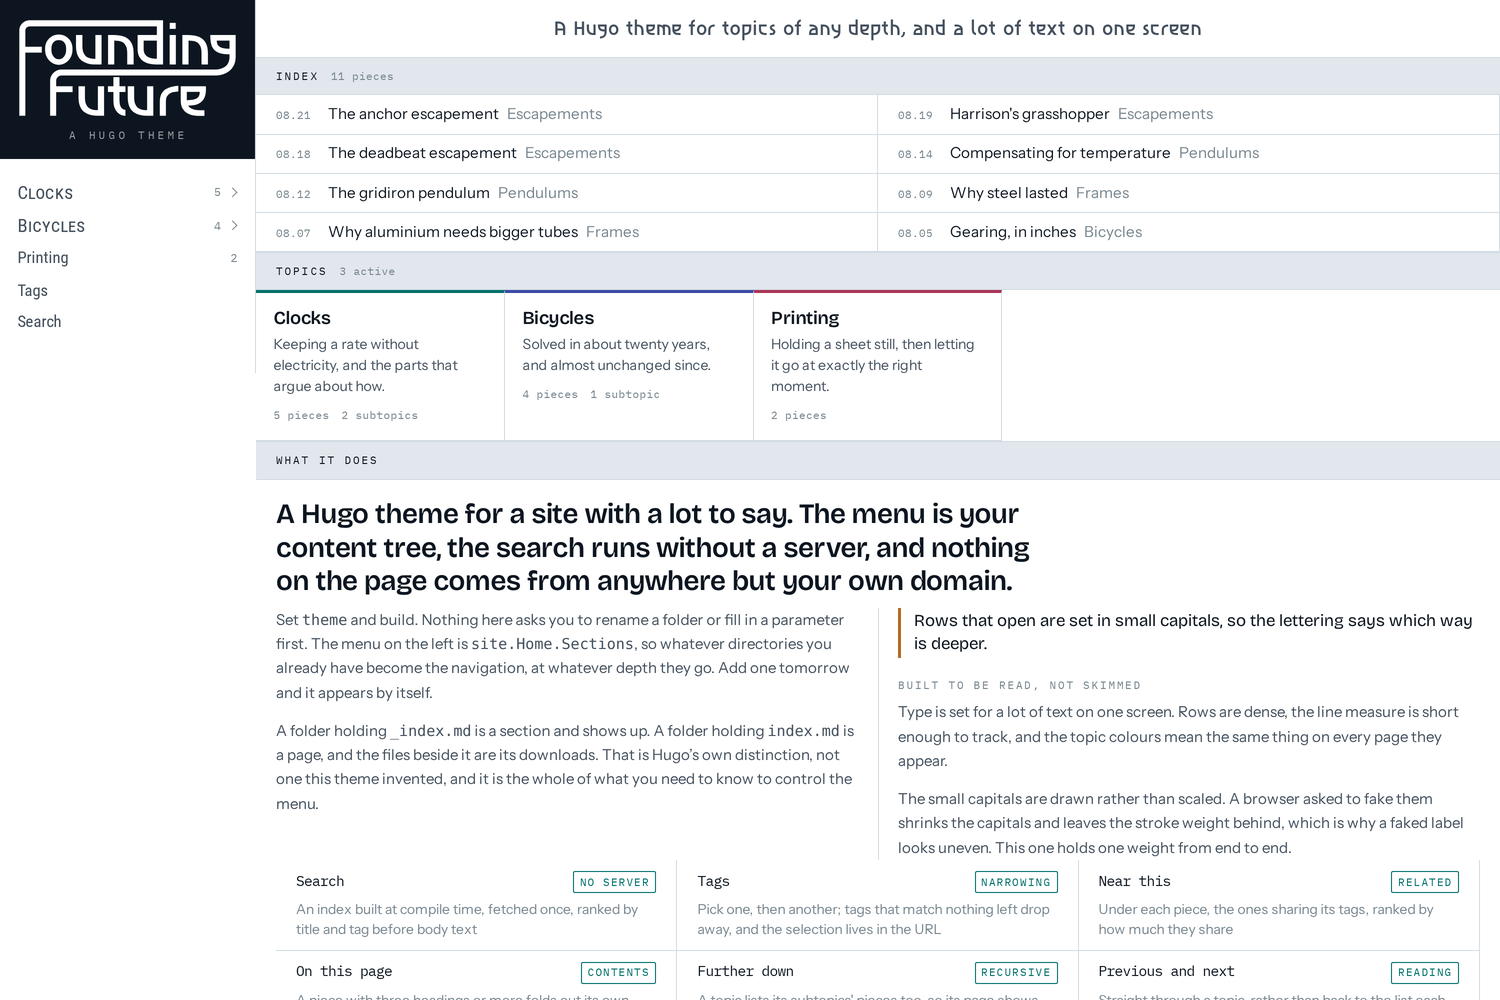
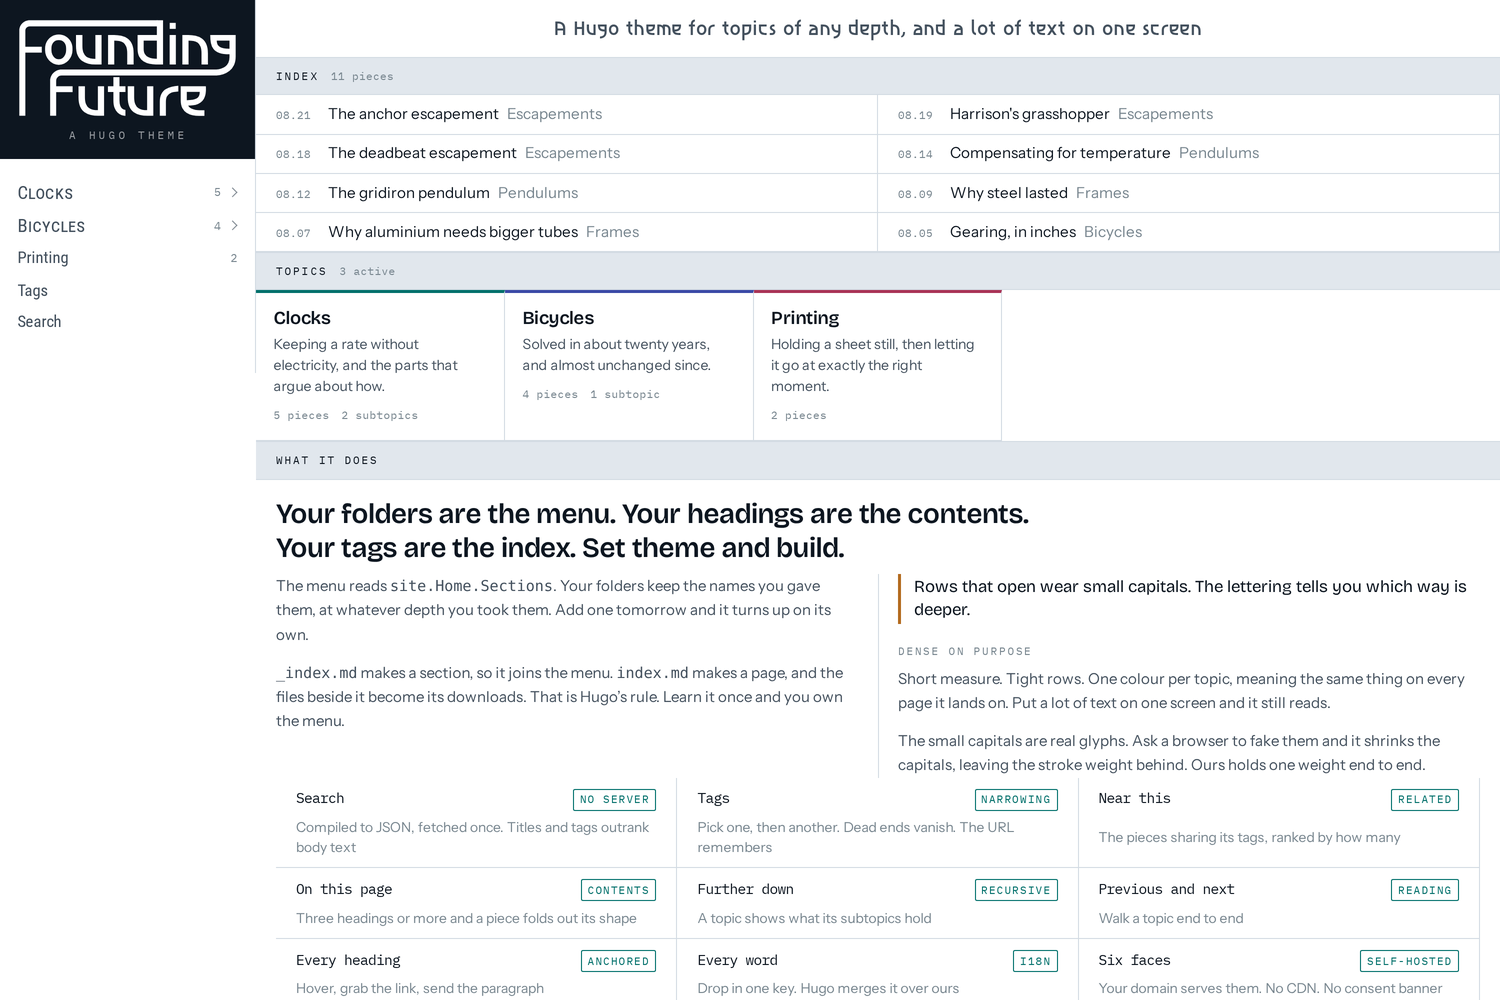
Rewrite the front page in plain English
The first draft hedged. "Nothing here asks you to rename a folder." "Drawn
rather than scaled." "Hugo's own distinction, not one this theme invented."
Every sentence defined itself against something it was not, which is a slow
way to say anything.

It says what it does now. Your folders are the menu. Your headings are the
contents. Your tags are the index. The feature lines lost a third of their
words and none of their meaning.

Screenshots redone, and the page now fits one screen at 1280.

Changed region(s): [[0.184, 0.496, 0.9813, 1.0]]

diff --git a/exampleSite/content/_index.md b/exampleSite/content/_index.md
@@ -2,41 +2,38 @@
 title: FoundingFuture I
 ---
 
-{{< lead >}}A Hugo theme for a site with a lot to say. The menu is your content tree, the search runs without a server, and nothing on the page comes from anywhere but your own domain.{{< /lead >}}
+{{< lead >}}Your folders are the menu. Your headings are the contents. Your tags are the index. Set `theme` and build.{{< /lead >}}
 
 {{< columns >}}
-Set `theme` and build. Nothing here asks you to rename a folder or fill in a
-parameter first. The menu on the left is `site.Home.Sections`, so whatever
-directories you already have become the navigation, at whatever depth they
-go. Add one tomorrow and it appears by itself.
+The menu reads `site.Home.Sections`. Your folders keep the names you gave
+them, at whatever depth you took them. Add one tomorrow and it turns up on
+its own.
 
-A folder holding `_index.md` is a section and shows up. A folder holding
-`index.md` is a page, and the files beside it are its downloads. That is
-Hugo's own distinction, not one this theme invented, and it is the whole of
-what you need to know to control the menu.
+`_index.md` makes a section, so it joins the menu. `index.md` makes a page,
+and the files beside it become its downloads. That is Hugo's rule. Learn it
+once and you own the menu.
 
-{{< pull >}}Rows that open are set in small capitals, so the lettering says which way is deeper.{{< /pull >}}
+{{< pull >}}Rows that open wear small capitals. The lettering tells you which way is deeper.{{< /pull >}}
 
-#### Built to be read, not skimmed
+#### Dense on purpose
 
-Type is set for a lot of text on one screen. Rows are dense, the line
-measure is short enough to track, and the topic colours mean the same thing
-on every page they appear.
+Short measure. Tight rows. One colour per topic, meaning the same thing on
+every page it lands on. Put a lot of text on one screen and it still reads.
 
-The small capitals are drawn rather than scaled. A browser asked to fake
-them shrinks the capitals and leaves the stroke weight behind, which is why
-a faked label looks uneven. This one holds one weight from end to end.
+The small capitals are real glyphs. Ask a browser to fake them and it
+shrinks the capitals, leaving the stroke weight behind. Ours holds one
+weight end to end.
 {{< /columns >}}
 
 {{< items >}}
-Search | no server | An index built at compile time, fetched once, ranked by title and tag before body text
-Tags | narrowing | Pick one, then another; tags that match nothing left drop away, and the selection lives in the URL
-Near this | related | Under each piece, the ones sharing its tags, ranked by how much they share
-On this page | contents | A piece with three headings or more folds out its own shape
-Further down | recursive | A topic lists its subtopics' pieces too, so its page shows the whole topic
-Previous and next | reading | Straight through a topic, rather than back to the list each time
-Every heading | anchored | Hover one and take its link, so a long piece can be sent by the paragraph
-Every word | i18n | Ship your own en.toml and Hugo merges it over the theme's, one key at a time
-Six faces | self-hosted | Served from your domain. No CDN, no third-party request, nothing to consent to
-No framework | plain CSS | Two small scripts, both for finding things. Every page works without them
+Search | no server | Compiled to JSON, fetched once. Titles and tags outrank body text
+Tags | narrowing | Pick one, then another. Dead ends vanish. The URL remembers
+Near this | related | The pieces sharing its tags, ranked by how many
+On this page | contents | Three headings or more and a piece folds out its shape
+Further down | recursive | A topic shows what its subtopics hold
+Previous and next | reading | Walk a topic end to end
+Every heading | anchored | Hover, grab the link, send the paragraph
+Every word | i18n | Drop in one key. Hugo merges it over ours
+Six faces | self-hosted | Your domain serves them. No CDN. No consent banner
+No framework | plain CSS | Two scripts, both for finding things. Pages work without them
 {{< /items >}}
